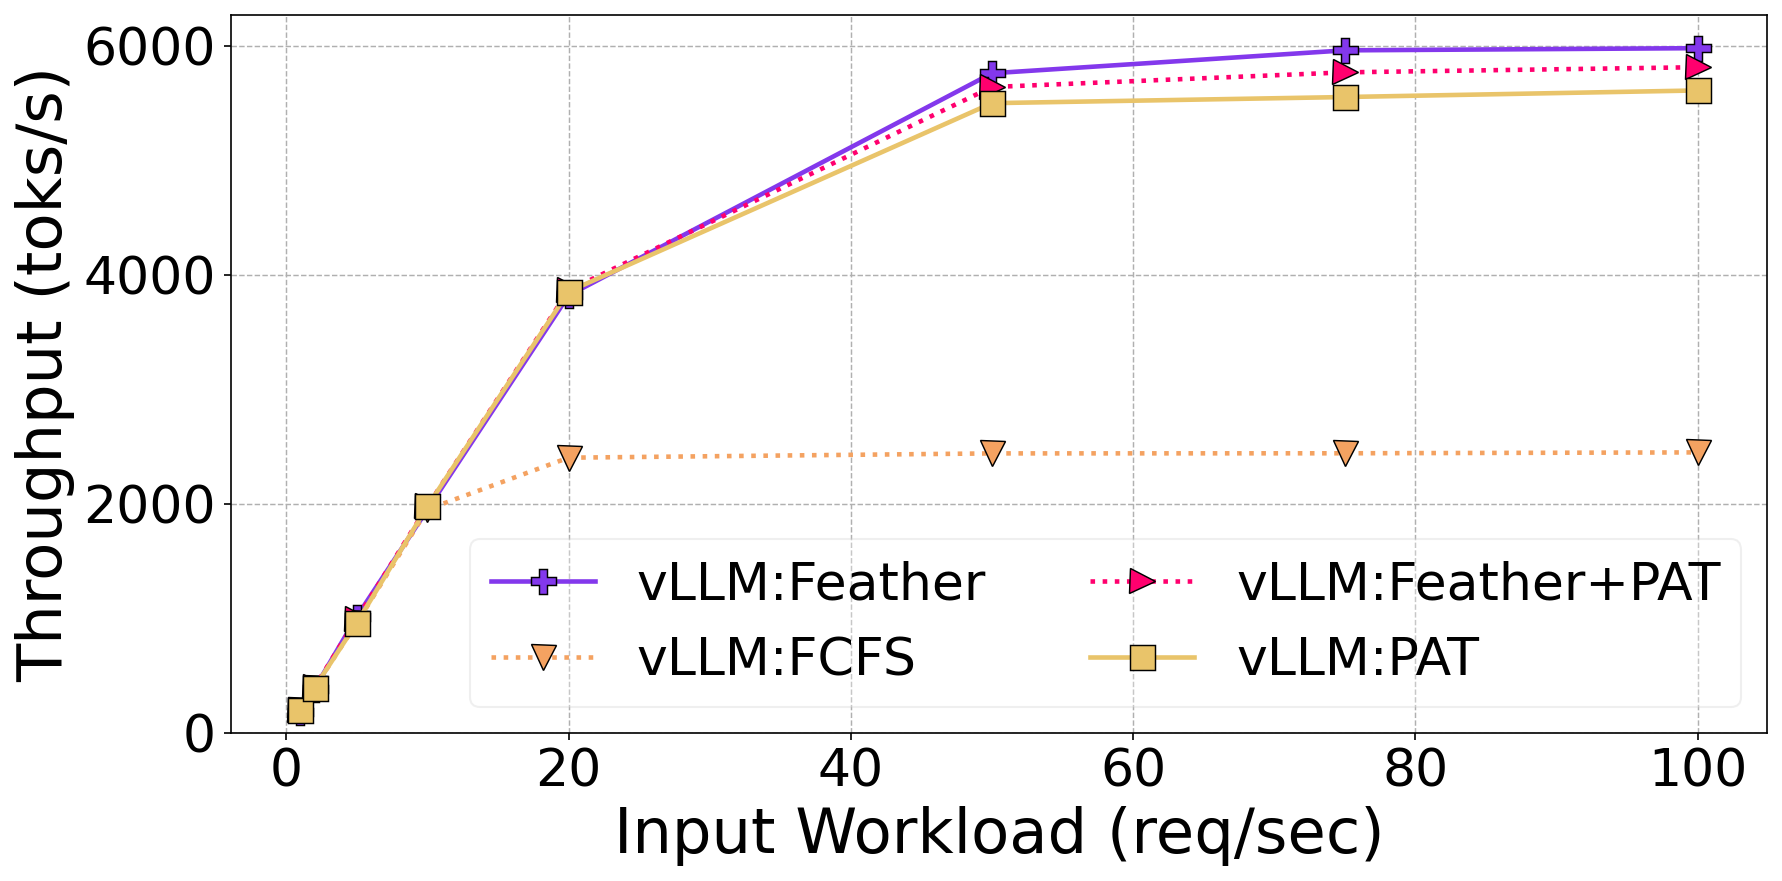
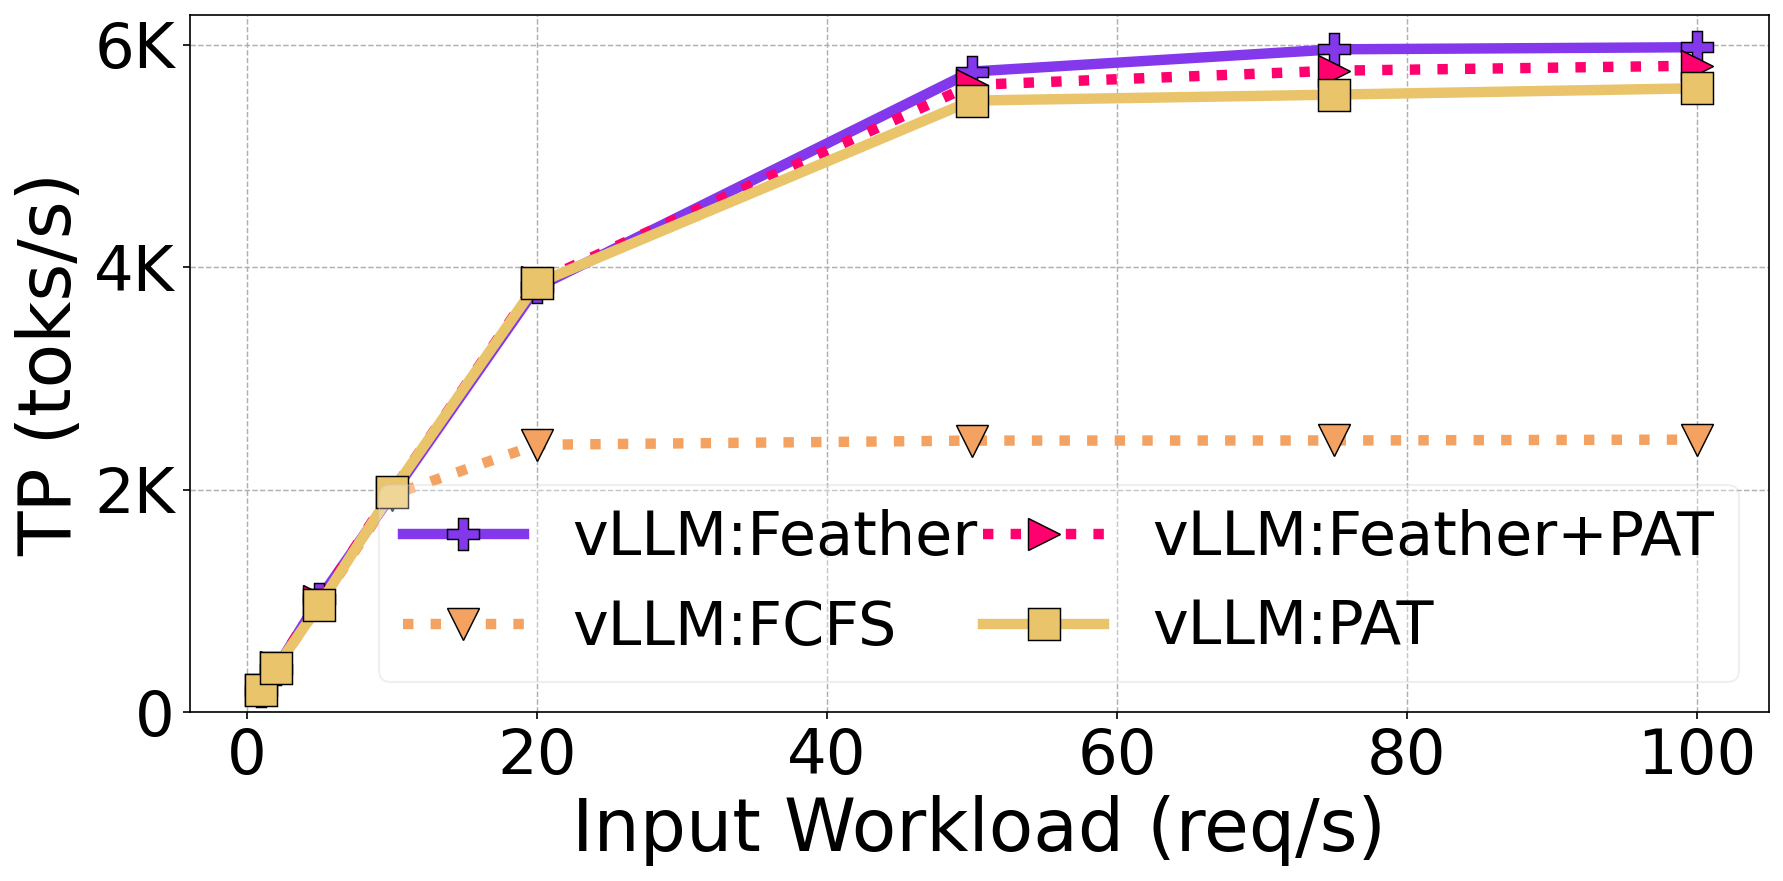
cpu overhead

diff --git a/code/vllm/pat_logs/plot.py b/code/vllm/pat_logs/plot.py
@@ -140,19 +140,21 @@ for i, (label, xs, ys) in enumerate(series):
         xs, ys,
         marker=MARKERS[i % len(MARKERS)],
         linestyle=LINESTYLES[i % len(LINESTYLES)],
-        linewidth=2.2,
-        markersize=12,
+        linewidth=5,
+        markersize=15,
         markeredgecolor="black",
         markeredgewidth=0.7,
         color=PALETTE[i % len(PALETTE)],
         label=f"vLLM:{label}",
     )
 
-ax.set_xlabel("Input Workload (req/sec)", fontsize=30)
-ax.set_ylabel("Throughput (toks/s)", fontsize=30)
-ax.tick_params(axis="both", labelsize=25)
-ax.yaxis.set_major_formatter(ticker.FormatStrFormatter('%.0f'))
-ax.legend(fontsize=25, framealpha=0.3, loc="lower right", ncol=2)
+ax.set_xlabel("Input Workload (req/s)", fontsize=35)
+ax.set_ylabel("TP (toks/s)", fontsize=35)
+ax.tick_params(axis="both", labelsize=30)
+# set thousand to K
+ax.yaxis.set_major_formatter(ticker.FuncFormatter(lambda x, pos: f"{int(x/1000)}K" if x >= 1000 else f"{int(x)}"))
+# ax.yaxis.set_major_formatter(ticker.FormatStrFormatter('%.0f'))
+ax.legend(fontsize=29, framealpha=0.3, loc="lower right", ncol=2, columnspacing=0.1)
 ax.grid(True, linewidth=0.7, linestyle="--")
 ax.set_ylim(bottom=0)
 plt.tight_layout()
